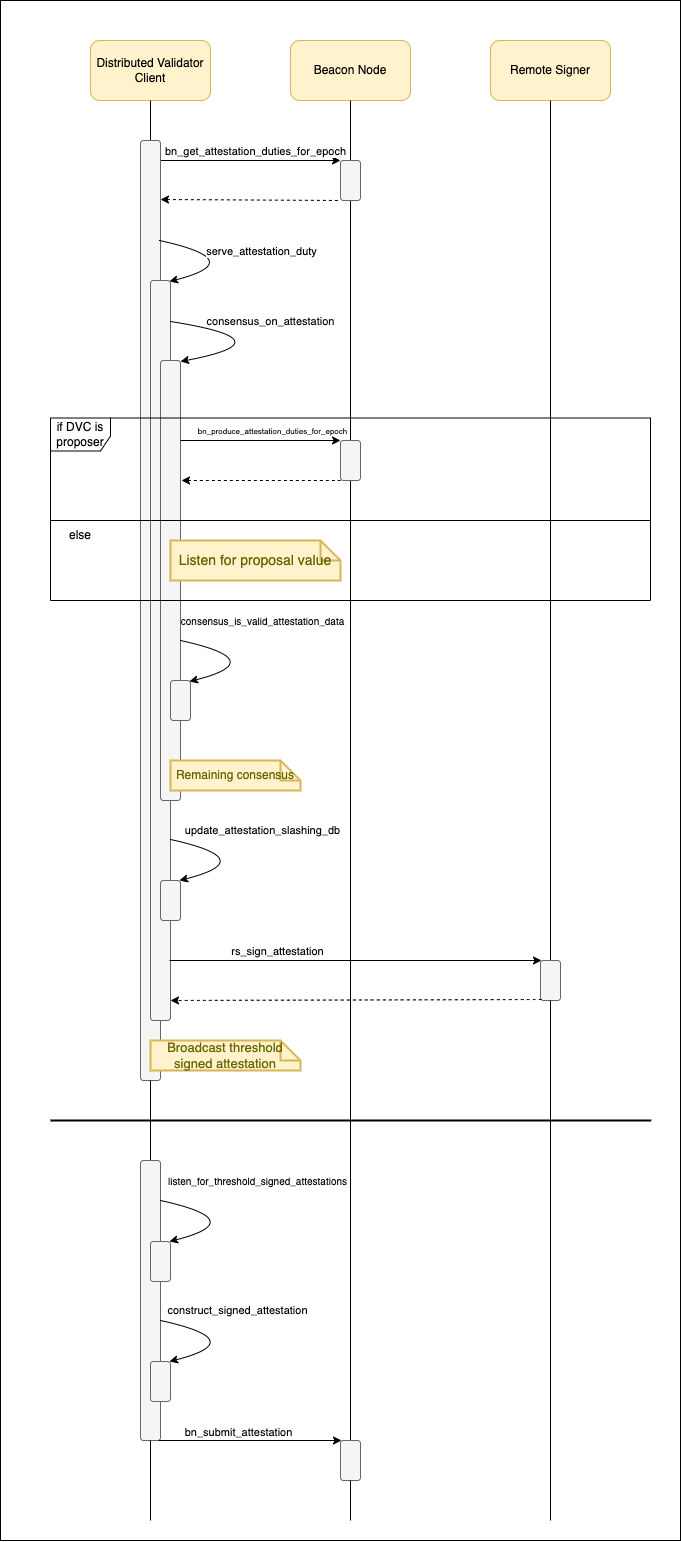
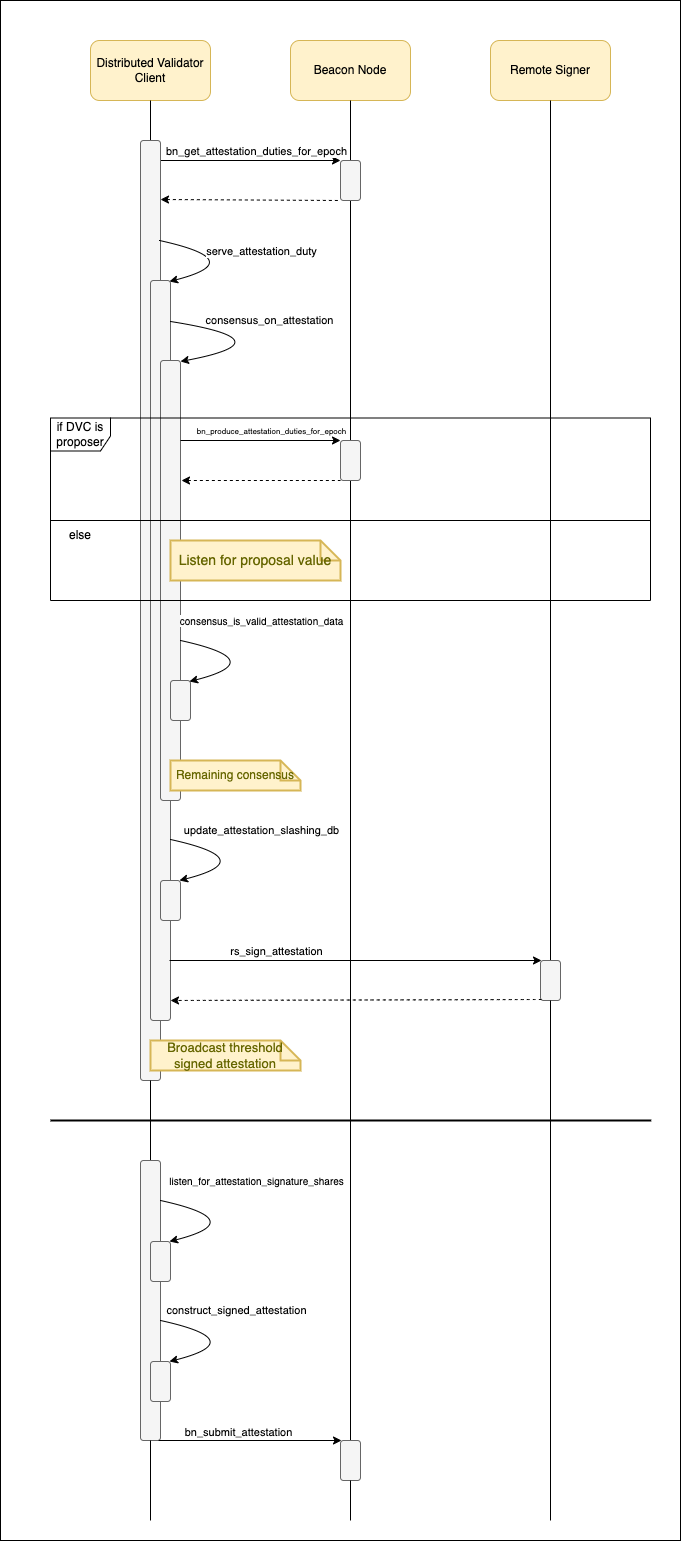
Fix typos, renamings

diff --git a/src/dvspec/spec.py b/src/dvspec/spec.py
@@ -50,8 +50,8 @@ from .networking import (
     construct_signed_randao_reveal,
     construct_signed_block,
     construct_signed_sync_committee_signature,
-    listen_for_attestations_signature_shares,
-    listen_for_blocks_signature_shares,
+    listen_for_attestation_signature_shares,
+    listen_for_block_signature_shares,
     listen_for_randao_reveal_signature_shares,
     listen_for_sync_committee_signatures_signature_shares,
 )
@@ -228,7 +228,7 @@ def attestation_combination() -> None:
     2b. Send the attestation to the beacon node for Ethereum p2p gossip.
     """
     # 1. Always listen for block signature shares from DV peers.
-    attestation_signature_shares = listen_for_attestations_signature_shares()
+    attestation_signature_shares = listen_for_attestation_signature_shares()
     # 2. Reconstruct complete signed block by combining attestation signature shares
     complete_signed_attestation = construct_signed_attestation(attestation_signature_shares)
     # 3. Send to beacon node for gossip
@@ -244,7 +244,7 @@ def block_combination() -> None:
     2b. Send the block to the beacon node for Ethereum p2p gossip.
     """
     # 1. Always listen for block signature shares from DV peers.
-    block_signature_shares = listen_for_blocks_signature_shares()
+    block_signature_shares = listen_for_block_signature_shares()
     # 2. Reconstruct complete signed block by combining block signature shares
     complete_signed_block = construct_signed_block(block_signature_shares)
     # 3. Send to beacon node for gossip

diff --git a/src/dvspec/networking.py b/src/dvspec/networking.py
@@ -25,7 +25,7 @@ def listen_for_randao_reveal_signature_shares() -> List[BLSSignature]:
     pass
 
 
-def listen_for_attestations_signature_shares() -> List[Attestation]:
+def listen_for_attestation_signature_shares() -> List[Attestation]:
     """Returns a list of any attestations signature shares that can be combined to construct
     a complete signed attestation.
     """
@@ -56,7 +56,7 @@ def broadcast_block_signature_share(block_signature_share: SignedBeaconBlock) ->
     pass
 
 
-def listen_for_blocks_signature_shares() -> List[SignedBeaconBlock]:
+def listen_for_block_signature_shares() -> List[SignedBeaconBlock]:
     """Returns a list of any block signature shares that can be combined to construct
     a complete signed block.
     """
